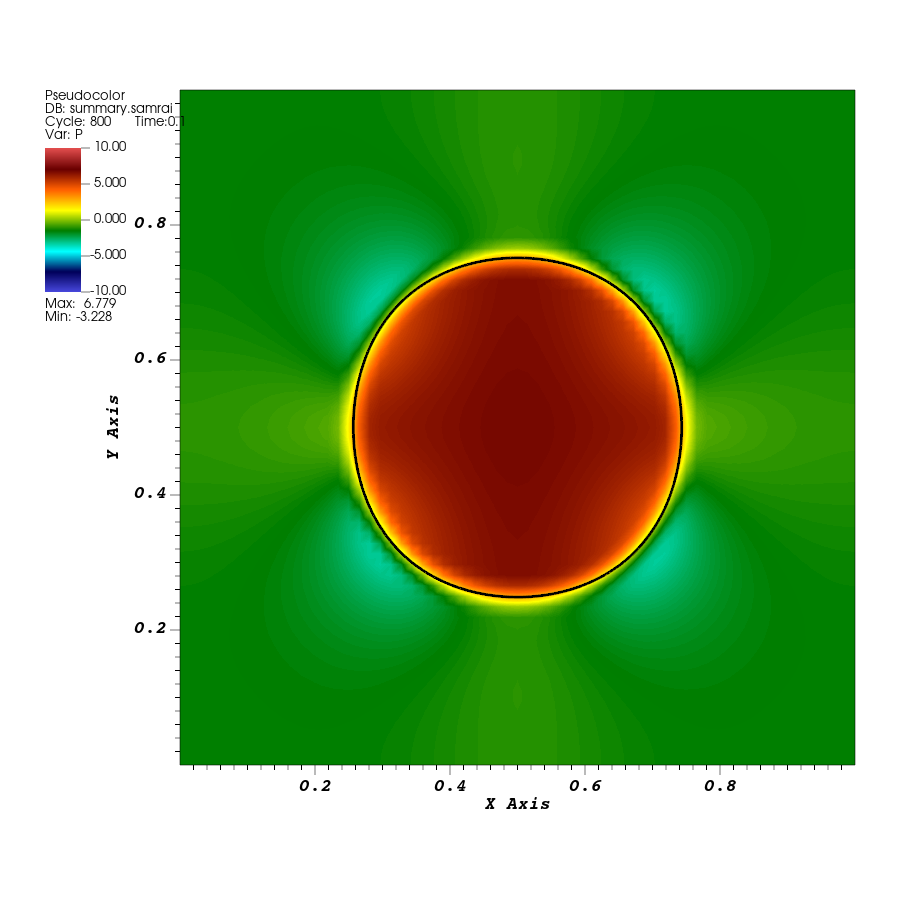
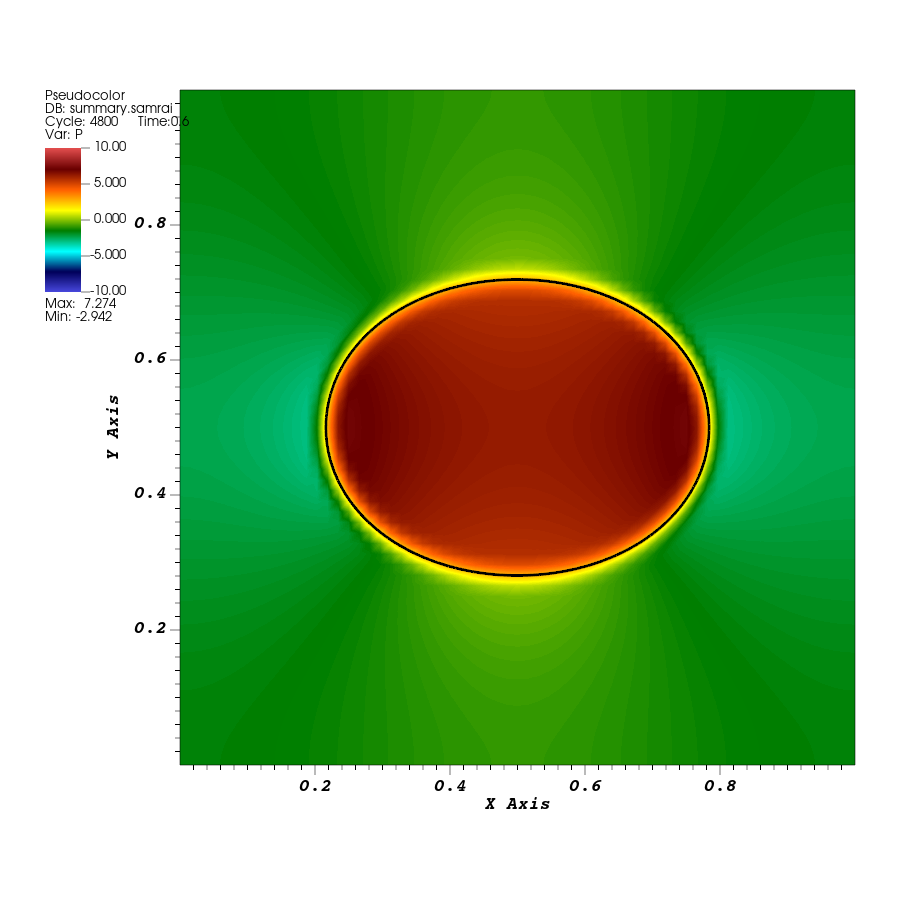
Set classic IB rubber band to run for longer.

diff --git a/tutorial/04-elastic-loop.md b/tutorial/04-elastic-loop.md
@@ -32,7 +32,7 @@ cd elastic-loop
 
 The application reads the structure files from the run directory. The `.vertex` file supplies point positions, and the `.spring` file supplies connections and spring parameters. If `elastic-loop` already exists, use a fresh run-directory name.
 
-Let the run finish. Its last time-step messages should report simulation time `0.1`, set by `END_TIME = 0.1` in the supplied input.
+Let the run finish. Its last time-step messages should report simulation time `0.6`, set by `END_TIME = 0.6` in the supplied input.
 
 Check the outputs in the run directory:
 
@@ -51,7 +51,7 @@ There are now two visualization sequences:
 | `viz_IB2d/dumps.visit` | Fluid velocity, pressure, and other requested fluid fields |
 | `viz_IB2d/lag_data.visit` | Structure points and their connections |
 
-`VisIt` enables the fluid writer and `Silo` enables the structure writer. The application writes both sequences together; the supplied input produces 21 matching states from time `0` to `0.1`. Keep the entire `viz_IB2d` directory, since the two `.visit` files refer to the numbered data directories within it.
+`VisIt` enables the fluid writer and `Silo` enables the structure writer. The application writes both sequences together; the supplied input produces 121 matching states from time `0` to `0.6`. Keep the entire `viz_IB2d` directory, since the two `.visit` files refer to the numbered data directories within it.
 
 ### View the rubber band and fluid together
 
@@ -60,7 +60,7 @@ Use a fresh VisIt window or remove the plots from tutorial 02. Work with the two
 1. Open `dumps.visit`. Add **Pseudocolor → P** and **Draw**. Set the color table to `hot_desaturated` and explicit limits to `-5` and `5`.
 2. Open `lag_data.visit` as an additional source. Keep the pressure plot from `dumps.visit`, and add **Mesh → curve2d_64_mesh** from `lag_data.visit`. Set the mesh color to black and increase the line width if needed, then **Draw**. The structure should appear inside the fluid plot.
 3. Open **Controls → Database correlations** and create a new correlation named `loop_time`. Choose the **Time** method and add both `dumps.visit` and `lag_data.visit` to its **Correlated sources** list. Create the correlation, then select `loop_time` as the **Active time slider**.
-4. Select the first state, at time `0`, then advance to the final state, at time `0.1`. The correlation moves both datasets together. Keep this common time slider selected when playing the sequence.
+4. Select the first state, at time `0`, then advance to the final state, at time `0.6`. The correlation moves both datasets together. Keep this common time slider selected when playing the sequence.
 
 A correlation connects the two saved time sequences; opening both files alone does not ensure that moving one file's slider updates the other. See the [VisIt database-correlation documentation](https://visit-sphinx-github-user-manual.readthedocs.io/en/3.4rc/using_visit/MultipleDatabaseAndWindows/Database_correlations.html) for the controls. In this case both writers saved the same times, so their states match directly.
 
@@ -70,7 +70,7 @@ A correlation connects the two saved time sequences; opening both files alone do
 
 ![Later rubber band over fluid pressure](figures/F02-later.png)
 
-*The same run at time `0.1`, with matching fluid and structure times and the same pressure limits. The rubber band is wider and shorter, with higher pressure inside it. This is a short transient run.*
+*The same run at time `0.6`, with matching fluid and structure times and the same pressure limits. The rubber band is taller than it is wide again, with higher pressure inside it.*
 
 The rubber-band overlay shows the current point connections. To inspect the individual points, you can select the structure mesh named `curve2d_64_vertices`. Keep `curve2d_64_mesh` for the continuous rubber-band view used here.
 
@@ -86,16 +86,18 @@ H=y_{\max}-y_{\min},\qquad
 \text{aspect ratio}=\frac{H}{W}.
 $$
 
-Advance the correlated time slider to the final state and repeat the query with the structure plot still selected. The checked output gives:
+Repeat the query near times `0.27` and `0.55`, then at the final state. The checked output gives:
 
 | Simulation time | Width $W$ | Height $H$ | Aspect ratio $H/W$ |
 | --- | --- | --- | --- |
 | `0` | `0.3571` | `0.7000` | `1.9600` |
-| `0.1` | `0.4044` | `0.5797` | `1.4336` |
+| `0.27` | `0.6321` | `0.3763` | `0.5953` |
+| `0.55` | `0.4198` | `0.5894` | `1.4040` |
+| `0.60` | `0.4307` | `0.5718` | `1.3275` |
 
 The decreasing ratio measures the change from a tall band toward a shape with more similar width and height. Save your measurements in a text file alongside the run's input and log. Select the structure plot for this query: selecting the fluid plot would measure the fluid domain instead of the rubber band.
 
-Save an image at time `0` and another at time `0.1` in the run directory under the build directory. Use the same view, pressure limits `[-5,5]`, and black rubber-band overlay for both. Give the files descriptive names such as `band-pressure-t0.png` and `band-pressure-t0.1.png`. Keep the pressure legend and simulation time visible, with `loop_time` selected as the common time slider.
+Save an image at time `0` and another at time `0.6` in the run directory under the build directory. Use the same view, pressure limits `[-5,5]`, and black rubber-band overlay for both. Give the files descriptive names such as `band-pressure-t0.png` and `band-pressure-t0.6.png`. Keep the pressure legend and simulation time visible, with `loop_time` selected as the common time slider.
 
 If the rubber band does not appear, check that the Mesh plot uses `lag_data.visit` and `curve2d_64_mesh`, while the pressure plot still uses `dumps.visit`. If the application cannot find the structure files, check that both `curve2d_64.vertex` and `curve2d_64.spring` were copied alongside the run's `input2d`.
 
@@ -167,7 +169,7 @@ $$
 
 Here $\mathbf X_i$ and $\mathbf X_j$ are current point positions, $\ell_{ij}$ is their separation, $\ell_{0,ij}$ is the spring's resting length, and $\kappa_{ij}$ is its stiffness. The force on $j$ is equal and opposite. A stretched spring pulls its endpoints toward one another. Each point receives contributions from its neighboring springs.
 
-The resting lengths in this file are zero. The initial ellipse is therefore under tension; its starting distances are not the springs' resting lengths. The structure forces act on the fluid, and the resulting fluid velocity moves the points. The saved frames show the initially stretched rubber band becoming wider and shorter. This short run does not establish an equilibrium shape or exact conservation of enclosed area.
+The resting lengths in this file are zero. The initial ellipse is therefore under tension; its starting distances are not the springs' resting lengths. The structure forces act on the fluid, and the resulting fluid velocity moves the points. The band widens and shortens, overshoots a round shape, then swings back. In the saved frames, its height-to-width ratio reaches a minimum near time `0.27` and a lower local maximum near `0.55`.
 
 The input can replace coefficients supplied by the spring file. Find the following `IBStandardInitializer` block; the top-level constants used here are `PI = 3.14159265358979`, `K = 1.0`, and the existing grid settings in the input:
 
@@ -329,6 +331,6 @@ The allowed step is now obtained from the coupled integrator. Its advance coordi
 
 ## Before moving on
 
-This tutorial ran a coupled IB simulation, read the point and spring files, and followed how the initializer, force generator, IB method, and fluid solver are connected. You should have a built rubber-band executable, a complete `elastic-loop` run with both visualization sequences, saved initial and later images with the fluid and structure matched in time, and width, height, and aspect-ratio measurements for both states.
+This tutorial ran a coupled IB simulation, read the point and spring files, and followed how the initializer, force generator, IB method, and fluid solver are connected. You should have a built rubber-band executable, a complete `elastic-loop` run with both visualization sequences, saved initial and later images with the fluid and structure matched in time, and width, height, and aspect-ratio measurements across the oscillation.
 
 [Tutorial 05](05-input-change.md) will change a model parameter through the rubber band's input file and compare a second run with this baseline. You will follow the active input coefficient and keep the outputs separate for a comparison at the same physical time.

diff --git a/tutorial/06-refinement.md b/tutorial/06-refinement.md
@@ -46,7 +46,7 @@ curve2d_128 {
 }
 ```
 
-Both names must change from `curve2d_64` to `curve2d_128`: the first selects the files, and the nested block configures that structure. Keep `K = 1.0`, `END_TIME = 0.1`, and the remaining input unchanged. The existing formulas calculate the new point-spacing scale, spring coefficients, and time-step bound.
+Both names must change from `curve2d_64` to `curve2d_128`: the first selects the files, and the nested block configures that structure. Keep `K = 1.0`, `END_TIME = 0.6`, and the remaining input unchanged. The existing formulas calculate the new point-spacing scale, spring coefficients, and time-step bound.
 
 ### Run the existing application
 
@@ -58,7 +58,7 @@ cd "$EXAMPLES_BUILD/examples/IB/explicit/ex1/elastic-loop-refined"
 tail -n 15 stdout.log
 ```
 
-Confirm that the run reaches physical time `0.1`. Open `IB2d.log` and check the input database: `max_levels` should be `2`, `num_node_circum` should be `608`, and the structure's `level_number` should be `1`. The log also reports regridding during the run.
+Confirm that the run reaches physical time `0.6`. Open `IB2d.log` and check the input database: `max_levels` should be `2`, `num_node_circum` should be `608`, and the structure's `level_number` should be `1`. The log also reports regridding during the run.
 
 The new fluid and structure sequences are in this run's `viz_IB2d/dumps.visit` and `viz_IB2d/lag_data.visit`. Keep both sequences and their complete data directories.
 
@@ -71,13 +71,13 @@ Use the pressure/structure overlay from tutorial 04, with these changes:
 1. Open the refined run's `dumps.visit`. If VisIt adds a **Subset → levels** plot automatically, hide it for the pressure view. Add **Pseudocolor → P**, use `hot_desaturated`, and set pressure limits to `-5` and `5`.
 2. Open the same run's `lag_data.visit` and add the black **Mesh → curve2d_128_mesh** plot. The mesh name changes with the structure name.
 3. Create a **Time** correlation for these two databases, named `refined_time`, and select it as the active time slider.
-4. Select physical time `0.1`. Use the same pressure limits and view when opening the baseline for comparison.
+4. Select physical time `0.6`. Use the same pressure limits and view when opening the baseline for comparison.
 
-The refined run has 41 saved states, compared with the baseline's 21. Its time-step bound is smaller, while `Main.viz_dump_interval = 20` still counts steps. Their final zero-based state indices are `40` and `20`; compare physical times rather than equal slider indices.
+The refined run has 241 saved states, compared with the baseline's 121. Its time-step bound is smaller, while `Main.viz_dump_interval = 20` still counts steps. Their final zero-based state indices are `240` and `120`; compare physical times rather than equal slider indices.
 
 ![Baseline rubber band over pressure](figures/F04-baseline.png)
 
-*Original one-level run at time `0.1`, using `curve2d_64` and pressure limits `[-5,5]`.*
+*Original one-level run at time `0.6`, using `curve2d_64` and pressure limits `[-5,5]`.*
 
 ![Refined rubber band over pressure](figures/F04-refined.png)
 
@@ -91,22 +91,22 @@ The level outlines show where the finer region lies around the rubber band. Move
 
 ![Refinement levels and the rubber band](figures/F04-grid.png)
 
-*Actual grid-level outlines and the structure at time `0.1`. The plot shows the extent of the refinement levels; it does not draw every fluid cell.*
+*Actual grid-level outlines and the structure at time `0.6`. The plot shows the extent of the refinement levels; it does not draw every fluid cell.*
 
 To see individual cells, add **Mesh → amr_mesh** from the fluid database. This is a different mesh from `curve2d_128_mesh`: one is the fluid grid and the other is the immersed structure. Hide the fluid mesh again when comparing pressure images.
 
 ### Compare a shape measurement
 
-Use **Spatial Extents** on the structure plot, as in tutorial 04. Record width, height, and height/width for the original and refined runs at time `0.1`. Both use `K = 1`; this comparison changes the fluid and structure resolutions together.
+Use **Spatial Extents** on the structure plot, as in tutorial 04. Record width, height, and height/width for the original and refined runs at time `0.6`. Both use `K = 1`; this comparison changes the fluid and structure resolutions together.
 
-The checked runs give these values at time `0.1`:
+The checked runs give these values at time `0.6`:
 
 | Run | Width | Height | Height/width |
 | --- | --- | --- | --- |
-| Original, one level | `0.4044` | `0.5797` | `1.4336` |
-| Refined, two levels | `0.4088` | `0.5731` | `1.4020` |
+| Original, one level | `0.4307` | `0.5718` | `1.3275` |
+| Refined, two levels | `0.4401` | `0.5608` | `1.2744` |
 
-The overall motion is similar, while the refined band is slightly wider and shorter at this time. Its height/width ratio is about 2.2% lower. This gives a practical indication of the result's sensitivity to resolution; two runs alone do not establish a converged value.
+The overall motion is similar, while the refined band is slightly wider and shorter at this time. Its height/width ratio is about 4.0% lower at this time.
 
 Save your measurements with the inputs and logs. Save a grid-level image and the two pressure/structure images with their physical times in the filenames.
 
@@ -225,4 +225,4 @@ If you later apply the kinetic-energy calculation from tutorial 03 to a refined 
 
 This tutorial added a finer grid level, supplied matching structure files, inspected the level outlines, and traced how structure-based tagging places finer patches. You should have separate baseline and refined runs, pressure/structure images at matching times, a grid-level image, and shape measurements retained with the input and logs.
 
-Tutorial 07 will introduce a finite-element elastic ring. You will run it and view its element mesh alongside the fluid before changing its initial stretch in tutorial 08.
+[Tutorial 07](07-finite-element-ring.md) introduces a finite-element elastic ring. You will run it and view its element mesh alongside the fluid before changing its initial stretch in tutorial 08.

diff --git a/tutorial/05-input-change.md b/tutorial/05-input-change.md
@@ -52,7 +52,7 @@ cd "$EXAMPLES_BUILD/examples/IB/explicit/ex1/elastic-loop-stiff"
 tail -n 15 stdout.log
 ```
 
-Confirm that the final reported simulation time is `0.1`. The program writes a new `IB2d.log` and `viz_IB2d` here, leaving the baseline output in `elastic-loop`.
+Confirm that the final reported simulation time is `0.6`. The program writes a new `IB2d.log` and `viz_IB2d` here, leaving the baseline output in `elastic-loop`.
 
 The log records the input database used by this run. Open `IB2d.log` and find `K`, `uniform_spring_stiffness`, and the integrators' `dt_max` entries. They should correspond to `K = 2`, stiffness approximately `387.065` in the printed database, and a time-step bound of `0.000125`. These values check that the intended input reached the initialized model.
 
@@ -64,30 +64,30 @@ Use the fluid-pressure and black rubber-band overlay from tutorial 04 for each r
 
 For the new run, create a **Time** database correlation for its fluid and structure files, using a distinct name such as `stiff_time`. Follow tutorial 04's correlation steps. Set the pressure limits to `-10` and `10` and use `hot_desaturated` for **both** runs. These shared limits replace the limits used for tutorial 04's single-run view.
 
-Select physical time `0.1` in each run. The baseline has 21 saved states and the stiffer case has 41, because `Main.viz_dump_interval = 20` counts steps and the stiffer case takes smaller steps. Their final zero-based state indices are `20` and `40`. Comparing the same slider index would compare different physical times. Read the displayed time when switching between runs.
+Select physical time `0.6` in each run. The baseline has 121 saved states and the stiffer case has 241, because `Main.viz_dump_interval = 20` counts steps and the stiffer case takes smaller steps. Their final zero-based state indices are `120` and `240`. Comparing the same slider index would compare different physical times. Read the displayed time when switching between runs.
 
-![Baseline rubber band and pressure at time 0.1](figures/F03-baseline.png)
+![Baseline rubber band and pressure at time 0.6](figures/F03-baseline.png)
 
-*Baseline, `K = 1.0`, at time `0.1`. Pressure limits are `[-10,10]`; the black mesh shows the rubber band.*
+*Baseline, `K = 1.0`, at time `0.6`. Pressure limits are `[-10,10]`; the black mesh shows the rubber band.*
 
-![Stiffer rubber band and pressure at time 0.1](figures/F03-stiff.png)
+![Stiffer rubber band and pressure at time 0.6](figures/F03-stiff.png)
 
 *Stiffer rubber band, `K = 2.0`, at the same time and with the same view and pressure limits. Both figures use actual IBAMR output.*
 
 ### Measure and save the comparison
 
-Select the structure mesh plot and use **Controls → Query → Spatial Extents**, as in tutorial 04. At time `0.1`, record the width, height, and height/width ratio for each run. The initial bounds should match because the vertex files are unchanged.
+Select the structure mesh plot and use **Controls → Query → Spatial Extents**, as in tutorial 04. At time `0.6`, record the width, height, and height/width ratio for each run. The initial bounds should match because the vertex files are unchanged.
 
-The checked runs give these values at time `0.1`:
+The checked runs give these values at time `0.6`:
 
 | Run | Width | Height | Height/width |
 | --- | --- | --- | --- |
-| Baseline, `K = 1.0` | `0.4044` | `0.5797` | `1.4336` |
-| Stiffer band, `K = 2.0` | `0.4865` | `0.5026` | `1.0332` |
+| Baseline, `K = 1.0` | `0.4307` | `0.5718` | `1.3275` |
+| Stiffer band, `K = 2.0` | `0.5677` | `0.4386` | `0.7726` |
 
-Both start with height/width approximately `1.9600`. At time `0.1`, the stiffer band has a ratio closer to one: its width and height are more similar. The pressure field also differs, as shown on the shared color scale. These are transient shapes at the selected time.
+Both start with height/width approximately `1.9600`. At time `0.6`, the baseline band is taller than it is wide, while the stiffer band is wider than it is tall. Play the two sequences to see how the stiffness changes the timing of the motion.
 
-Save the measurements alongside each run's input and log, including `K` and physical time. Save a PNG of each final overlay using the same view, color table, and limits. Use names such as `band-K1-pressure-t0.1.png` and `band-K2-pressure-t0.1.png`.
+Save the measurements alongside each run's input and log, including `K` and physical time. Save a PNG of each final overlay using the same view, color table, and limits. Use names such as `band-K1-pressure-t0.6.png` and `band-K2-pressure-t0.6.png`.
 
 ## The input and program
 
@@ -163,7 +163,7 @@ For the existing grid, `DX_FINEST = 1/64`. Changing `K` from `1.0` to `2.0` chan
 Keep the final time independent of `K`:
 
 ```text
-END_TIME = 0.1
+END_TIME = 0.6
 ```
 
 This is already the value in the supplied tutorial input. It makes both simulations stop at the same physical time even though they take different numbers of steps. No other input changes are required.

diff --git a/tutorial/figures/F04-notes.md b/tutorial/figures/F04-notes.md
@@ -1,16 +1,8 @@
-# Rubber-band refinement figures
+# Classical IB refinement comparison
 
-Created 2026-10-30 from actual IBAMR v0.19.0 output, rendered with VisIt 3.4.2. The figures compare a one-level baseline with a two-level locally refined run and show where the fine patches lie.
+All frames are at time 0.6. Pressure limits are [-5,5]. Both runs use K = 1. The refined run uses two levels, refinement ratio 2, and curve2d_128. The grid image shows the refinement levels in wireframe over the structure.
 
-- Application: `examples/IB/explicit/ex1/example.cpp`, unchanged. Baseline uses the supplied tutorial `input2d` and `curve2d_64` files.
-- Refined input: `MAX_LEVELS = 2`, `REF_RATIO = 2`, and both initializer structure names changed to `curve2d_128`. The matching vertex and spring files are unchanged upstream data. Provenance is in `../../UPSTREAM.json`.
-- Both runs retain `N = 64`, `K = 1`, and `END_TIME = 0.1`. Existing expressions adjust `ds`, spring stiffness, and the step bound consistently with the finer resolution.
-- All figures show physical time `0.1`. Baseline state index `20`; refined index `40`. Time correlations synchronize each fluid and structure sequence.
-- Pressure images: `dumps.visit`, Pseudocolor `P`, `hot_desaturated`, limits `[-5,5]`, and black structure Mesh overlays. Baseline mesh `curve2d_64_mesh`; refined mesh `curve2d_128_mesh` from `lag_data.visit`.
-- Grid image: fluid Subset `levels`, Wireframe enabled, plus the refined black structure mesh. Red denotes level 0 and green denotes level 1. These are patch/level outlines rather than individual fluid cells. At this state the saved hierarchy has one coarse patch and eight fine patches.
-- Full unit-square view; 900 x 900 PNG. Fields follow the example's numerical scales without assigned dimensional units.
-- Final width/height ratios: baseline `1.4335747840`; refined `1.4020259745`. This is a two-resolution comparison, not a convergence result.
+- Baseline at time 0.6, state 120 of 121 saved states. Width 0.430722, height 0.571779, height/width 1.327490. Pressure range [-1.452588, 3.578816].
+- Refined at time 0.6, state 240 of 241 saved states. Width 0.440057, height 0.560796, height/width 1.274372. Pressure range [-1.417393, 3.594198].
 
-The three images were visually inspected. Complete run inputs/logs and capture metadata are retained with the author validation records. The figure source is IBAMR simulation data, not an illustrative reconstruction.
-
-Regenerated from fresh v0.19.0 opt-build runs on 2026-10-30. Saved times, scalar ranges, and structure extents were queried before visual inspection.
+Rendered from IBAMR v0.19.0 opt output in VisIt 3.4.2. Fluid and structure times were checked for each image. The pressure plots use hot_desaturated with a black structure overlay.

diff --git a/tutorial/figures/F03-notes.md b/tutorial/figures/F03-notes.md
@@ -1,16 +1,8 @@
-# Rubber-band stiffness comparison
+# Classical IB stiffness comparison
 
-`F03-baseline.png` and `F03-stiff.png` show actual IBAMR v0.19.0 results rendered with VisIt 3.4.2. Created for tutorial 05 on 2026-10-29 to compare one input change at equal physical time.
+Both frames are at time 0.6. Pressure limits are [-10,10]. The stiffness case changes K from 1 to 2.
 
-- Starting input and structure files: `examples/IB/explicit/ex1/input2d`, `curve2d_64.vertex`, and `curve2d_64.spring`.
-- Baseline uses the supplied input, `K = 1.0`. The comparison changes only `K` to `2.0`; the existing `DT` expression supplies a smaller step bound. Both end at time `0.1`.
-- Source and executable are unchanged between runs. The example source and input provenance is recorded in `../../UPSTREAM.json`.
-- Fluid: `viz_IB2d/dumps.visit`, Pseudocolor `P`. Structure: `viz_IB2d/lag_data.visit`, black Mesh `curve2d_64_mesh`.
-- Both fluid and structure are at physical time `0.1`, synchronized through a Time correlation. Baseline state index `20`; stiffness-comparison state index `40`.
-- Shared view: full unit square, pressure limits `[-10,10]`, color table `hot_desaturated`, 900 x 900 PNG. Values use the example's numerical scales; dimensional units have not been assigned.
-- Baseline final pressure range approximately `[-1.6977,4.0242]`; comparison range approximately `[-3.2281,6.7793]`.
-- Baseline height/width approximately `1.4336`; comparison approximately `1.0332`. These are transient results at time `0.1`.
+- Baseline at time 0.6, state 120 of 121 saved states. Width 0.430722, height 0.571779, height/width 1.327490. Pressure range [-1.452588, 3.578816].
+- Stiff at time 0.6, state 240 of 241 saved states. Width 0.567682, height 0.438566, height/width 0.772555. Pressure range [-2.941667, 7.273967].
 
-The baseline figure was freshly rerun with the same files as tutorial 04. The two captions and the corresponding input change are given in tutorial 05. Both images were visually inspected. Complete capture settings and numerical query results are retained in the author validation records.
-
-Regenerated from fresh v0.19.0 opt-build runs on 2026-10-30. Saved times, scalar ranges, and structure extents were queried before visual inspection.
+Rendered from IBAMR v0.19.0 opt output in VisIt 3.4.2. Fluid and structure times were checked for each image. The pressure plots use hot_desaturated with a black structure overlay.

diff --git a/tutorial/figures/F02-notes.md b/tutorial/figures/F02-notes.md
@@ -1,16 +1,7 @@
-# Elastic rubber-band figure notes
+# Classical IB rubber-band motion
 
-`F02-initial.png` and `F02-later.png` are VisIt 3.4.2 renders of the tutorial 04 IBAMR v0.19.0 run. Their purpose is to show the moving rubber band together with the surrounding pressure field.
+The initial frame is at time 0. The later frame is at time 0.6. Pressure limits are [-5,5]. The baseline uses the supplied input with K = 1.
 
-- Input: `examples/IB/explicit/ex1/input2d`, with its supplied vertex/spring files; no additional run edits.
-- Fluid source: the run's `viz_IB2d/dumps.visit`, Pseudocolor `P`.
-- Structure source: the run's `viz_IB2d/lag_data.visit`, Mesh `curve2d_64_mesh`, black lines.
-- Initial image: both datasets at time `0`, state `0`.
-- Later image: both datasets at time `0.1`, state `20`.
-- A Time database correlation synchronizes the datasets.
-- Display: full unit square, pressure limits `[-5,5]`, color table `hot_desaturated`, 900 × 900 PNG.
-- Values follow the example's numerical scales; no dimensional units have been assigned.
+- Baseline at time 0.6, state 120 of 121 saved states. Width 0.430722, height 0.571779, height/width 1.327490. Pressure range [-1.452588, 3.578816].
 
-The saved initial pressure is zero. At time `0.1`, the saved pressure ranges approximately from `-1.6977` to `4.0242`. The initial rubber-band bounds are approximately `[0.3214,0.6786] × [0.15,0.85]`; later bounds are `[0.2978,0.7022] × [0.2101,0.7899]`. These describe the short teaching run, not an equilibrium or convergence result.
-
-Regenerated from fresh v0.19.0 opt-build runs on 2026-10-30. Saved times, scalar ranges, and structure extents were queried before visual inspection.
+Rendered from IBAMR v0.19.0 opt output in VisIt 3.4.2. Fluid and structure times were checked for each image. The pressure plots use hot_desaturated with a black structure overlay.
